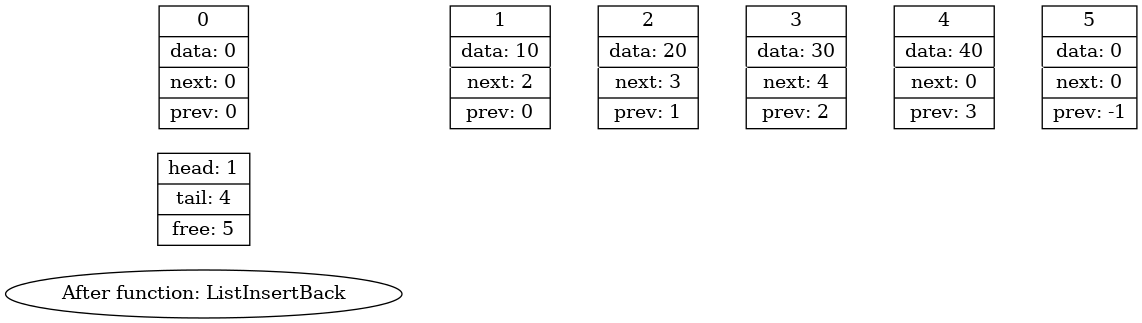
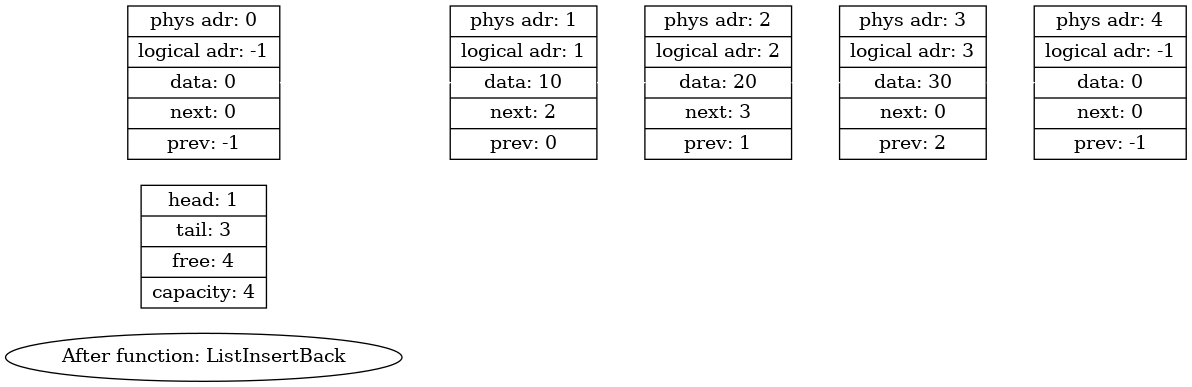
Made InsertFront and InsertBefore funcs.\n Made logical addresses in Dump.

diff --git a/src/ListFunc.cpp b/src/ListFunc.cpp
@@ -8,7 +8,7 @@ int ListCtor(List* list, int capacity)
 
     list->elem = (ListElem*) calloc(list->capacity + 1, sizeof(ListElem));
 
-    SetListMem(list);
+    SetListMemCtor(list);
 
     list->head = 1;
     list->tail = 1;
@@ -34,24 +34,23 @@ int ListDtor(List* list)
     return 0;
 }
 
-int SetListMem(List* list)
+int SetListMemCtor(List* list)
 {
     LIST_CHECK(__FUNCTION__);
 
     for(int i = 1; i <= list->capacity; i++)
     {
-        if(i == list->capacity)
-            list->elem[i].next = 0;
-        else
-            list->elem[i].next = i + 1;
-
+        list->elem[i].next = i + 1;
         list->elem[i].prev = -1;
     }
+
+    list->elem[list->capacity].next = 0;
+    list->elem[0].prev              = -1;
 
     return 0;
 }
 
-int SetListMemPoison (List* list)
+int SetListMemPoison(List* list)
 {
     LIST_CHECK(__FUNCTION__);
 
@@ -65,12 +64,90 @@ int SetListMemPoison (List* list)
     return 0;
 }
 
-int ListInsertBack (List* list, data_t value)
+int SetListMemResize(List* list, int old_capacity)
 {
     LIST_CHECK(__FUNCTION__);
 
+    for(int i = old_capacity + 1; i <= list->capacity; i++)
+    {
+        list->elem[i].data = 0;
+        list->elem[i].next = i + 1;
+        list->elem[i].prev = -1;
+    }
+
+    list->elem[list->capacity].next = 0;
+
+    return 0;
+}
+
+int ListResize(List* list)
+{
+    LIST_CHECK(__FUNCTION__);
+
+    int old_capacity = list->capacity;
+    list->capacity *= CAPACITY_STEP;
+
+    list->elem = (ListElem*) realloc(list->elem, (list->capacity + 1) * sizeof(ListElem));
+
+    if (list->elem == nullptr)
+    {
+        printf("In function LestResize: can't realloc memory");
+        return REALLOC_ERROR;
+    }
+
+    list->free = old_capacity + 1;
+
+    SetListMemResize(list, old_capacity);
+
+    ListDump(list, __FUNCTION__);
+
+    return 0;
+}
+
+int GetPhysAddress(List* list, int logical_adr)
+{
+    int phys_adr = list->head;
+
+    for(int i = 1; i < logical_adr; i++)
+    {
+        phys_adr = list->elem[phys_adr].next;
+
+        if(phys_adr == 0)
+            return -1;
+    }
+
+    return phys_adr;
+}
+
+int GetLogicalAddress(List* list, int phys_adr)
+{
+    if(list->elem[phys_adr].prev == -1)
+        return -1;
+
+    int logical_adr = 1;
+
+    while(phys_adr != list->head)
+    {
+        logical_adr++;
+        phys_adr = list->elem[phys_adr].prev;
+
+        if(logical_adr > list->capacity)
+            return -1;
+    }
+
+    return logical_adr;
+}
+
+int ListInsertBack(List* list, data_t value)
+{
+    LIST_CHECK(__FUNCTION__);
+
+    if(list->free == 0)
+        ListResize(list);
+
     list->elem[list->free].data = value; //1
 
+    //First element
     if (list->head == list->free)
     {
         list->free = list->elem[list->tail].next;
@@ -78,6 +155,7 @@ int ListInsertBack (List* list, data_t value)
         list->elem[list->tail].next = 0;
         list->elem[list->tail].prev = 0;
     }
+    //Other element
     else
     {
         list->elem[list->tail].next = list->free; //2
@@ -93,4 +171,79 @@ int ListInsertBack (List* list, data_t value)
     ListDump(list, __FUNCTION__);
 
     return list->tail;
+}
+
+int ListInsertFront(List* list, data_t value)
+{
+    LIST_CHECK(__FUNCTION__);
+
+    if(list->free == 0)
+        ListResize(list);
+
+    list->elem[list->free].data = value; //1
+
+    //First element
+    if (list->head == list->free)
+    {
+        list->free = list->elem[list->tail].next;
+
+        list->elem[list->tail].next = 0;
+        list->elem[list->tail].prev = 0;
+    }
+    //Other element
+    else
+    {
+        list->elem[list->head].prev = list->free; //2
+        list->elem[list->free].prev = 0; //3
+
+        int new_free = list->elem[list->free].next;
+
+        list->elem[list->free].next = list->head; //4
+
+        list->head = list->free; //5
+
+        list->free = new_free; //6
+    }
+
+    ListDump(list, __FUNCTION__);
+
+    return list->head;
+}
+
+int ListInsertBefore(List* list, int position, data_t value)
+{
+    LIST_CHECK(__FUNCTION__);
+
+    if(list->elem[position].prev == -1)
+    {
+        printf("In Function ListInsertBefore: can't insert before free node");
+        return INSERT_ERROR;
+    }
+
+    if(list->free == 0)
+        ListResize(list);
+
+    list->elem[list->free].data = value; //1
+
+    int current_elem_position = list->free;
+
+    //Before fist element
+    if (list->elem[position].prev == 0)
+        return ListInsertFront(list, value);
+    //Other element
+    else
+    {
+        list->elem[list->free].prev = list->elem[position].prev; //2
+
+        list->free = list->elem[list->free].next; //3
+
+        list->elem[current_elem_position].next = list->elem[list->elem[position].prev].next; //4
+
+        list->elem[list->elem[position].prev].next = current_elem_position; //5
+                   list->elem[position].prev       = current_elem_position; //6
+    }
+
+    ListDump(list, __FUNCTION__);
+
+    return current_elem_position;
 }

diff --git a/include/List.h b/include/List.h
@@ -21,6 +21,7 @@ enum ListErrors
     LIST_DOUBLE_CTED = 4,
     LIST_IS_OVERFL   = 5,
     INSERT_ERROR     = 6,
+    REALLOC_ERROR    = 7,
 };
 
 typedef struct ListElem
@@ -51,25 +52,40 @@ do  \
         return error;   \
 }while (0) \
 
-const int LIST_CAPACITY = 5;
+const int LIST_START_CAPACITY = 2;
+const int CAPACITY_STEP = 2;
 
 //---------ListFunctions---------
 
-int ListCtor (List* list, int capacity);
+int ListCtor(List* list, int capacity);
 
-int ListDtor (List* list);
+int ListDtor(List* list);
 
-int SetListMem (List* list);
+int SetListMemCtor(List* list);
 
-int SetListMemPoison (List* list);
+int SetListMemPoison(List* list);
 
-int ListInsertBack (List* list, int value);
+int SetListMemResize(List* list, int old_capacity);
+
+int ListResize(List* list);
+
+int GetPhysAddress(List* list, int logical_adr);
+
+int GetLogicalAddress(List* list, int phys_adr);
+
+int ListInsertBack(List* list, int value);
+
+int ListInsertFront(List* list, data_t value);
+
+int ListInsertBefore(List* list, int position, data_t value);
+
+//---------ListErrorCheckFunctions---------
 
 int ListErrorCheck(List* list, const char* func);
 
 //---------ListDumpFunctions---------
 
-int ListDump (List* list, const char* current_function);
+int ListDump(List* list, const char* current_function);
 
 int MakeTextDump(List* list, FILE* dump_fp, const char* current_function); //Больше не используется
 
@@ -83,4 +99,6 @@ char* DumpFileName(int dump_cnt, const char* format);
 
 //---------ListTestFunctions---------
 
-int ListInsertBackTest (List* list, int elems_num);
+int ListInsertBackTest(List* list, int elems_num);
+
+int ListInsertFrontTest(List* list, int elems_num);

diff --git a/src/ListDump.cpp b/src/ListDump.cpp
@@ -1,6 +1,6 @@
 #include <../include/List.h>
 
-int ListDump (List* list, const char* current_function)
+int ListDump(List* list, const char* current_function)
 {
     LIST_CHECK(__FUNCTION__);
 
@@ -58,15 +58,15 @@ int MakeGraphDumpTxt(List* list, const char* current_function, int dump_cnt)
 
     fprintf(dump_fp, "\t\"After function: %s\"\n\n", current_function);
 
-    fprintf(dump_fp, "\tPointers [shape = record, label = "
-                     "\" head: %d | tail: %d | free: %d \"];\n\n",
-            list->head, list->tail, list->free);
+    fprintf(dump_fp, "\tListInfo [shape = record, label = "
+                     "\" head: %d | tail: %d | free: %d | capacity: %d \"];\n\n",
+            list->head, list->tail, list->free, list->capacity);
 
     for(int i = 0; i <= list->capacity; i++)
     {
         fprintf(dump_fp, "\tNode%d [shape = record, label = "
-                         "\" %d | data: %d | <next> next: %d | <prev> prev: %d\"];\n",
-                i, i, list->elem[i].data, list->elem[i].next, list->elem[i].prev);
+                         "\" phys adr: %d | logical adr: %d | data: %d | <next> next: %d | <prev> prev: %d\"];\n",
+                i, i, GetLogicalAddress(list, i), list->elem[i].data, list->elem[i].next, list->elem[i].prev);
     }
 
     fprintf(dump_fp, "\n\tedge[color=white]\n");

diff --git a/src/ListErrorCheck.cpp b/src/ListErrorCheck.cpp
@@ -7,6 +7,7 @@ int ListErrorCheck(List* list, const char* func)
         if (list->elem != nullptr)
         {
             printf("In Function %s: List constructed twice\n", func);
+            ListDump(list, __FUNCTION__);
             return LIST_DOUBLE_CTED;
         }
     }
@@ -22,16 +23,18 @@ int ListErrorCheck(List* list, const char* func)
             printf("In Function %s: elem is nullptr\n", func);
             return ELEM_NULL_PTR;
         }
-        if(strcmp(func, "ListInsertBack") == 0)
+        if(strcmp(func, "ListInsertBack") == 0 || strcmp(func, "ListInsertFront") == 0)
         {
             if (list->free > list->capacity)
             {
                 printf("In Function %s: list is overflowed\n", func);
+                ListDump(list, __FUNCTION__);
                 return LIST_IS_OVERFL;
             }
             if (list->elem[list->free].prev != -1)
             {
                 printf("In Function %s: an attempt to insert into a non-free node\n", func);
+                ListDump(list, __FUNCTION__);
                 return INSERT_ERROR;
             }
         }

diff --git a/src/ListTest.cpp b/src/ListTest.cpp
@@ -1,11 +1,21 @@
 #include <../include/List.h>
 
-int ListInsertBackTest (List* list, int elems_num)
+int ListInsertBackTest(List* list, int elems_num)
 {
     LIST_CHECK(func);
 
     for (int i = 1; i <= elems_num; i++)
         ListInsertBack(list, i*10);
+
+    return 0;
+}
+
+int ListInsertFrontTest(List* list, int elems_num)
+{
+    LIST_CHECK(func);
+
+    for (int i = 1; i <= elems_num; i++)
+        ListInsertFront(list, 10 - i);
 
     return 0;
 }

diff --git a/src/ListMain.cpp b/src/ListMain.cpp
@@ -4,9 +4,13 @@ int main()
 {
     List list = {};
 
-    ListCtor(&list, LIST_CAPACITY);
+    ListCtor(&list, LIST_START_CAPACITY);
 
-    ListInsertBackTest (&list, 5);
+    ListInsertBackTest(&list, 3);
+    ListInsertFrontTest(&list, 2);
+
+    ListInsertBefore(&list, GetPhysAddress(&list, 2), 1);
+
 
     ListDtor(&list);
 }
